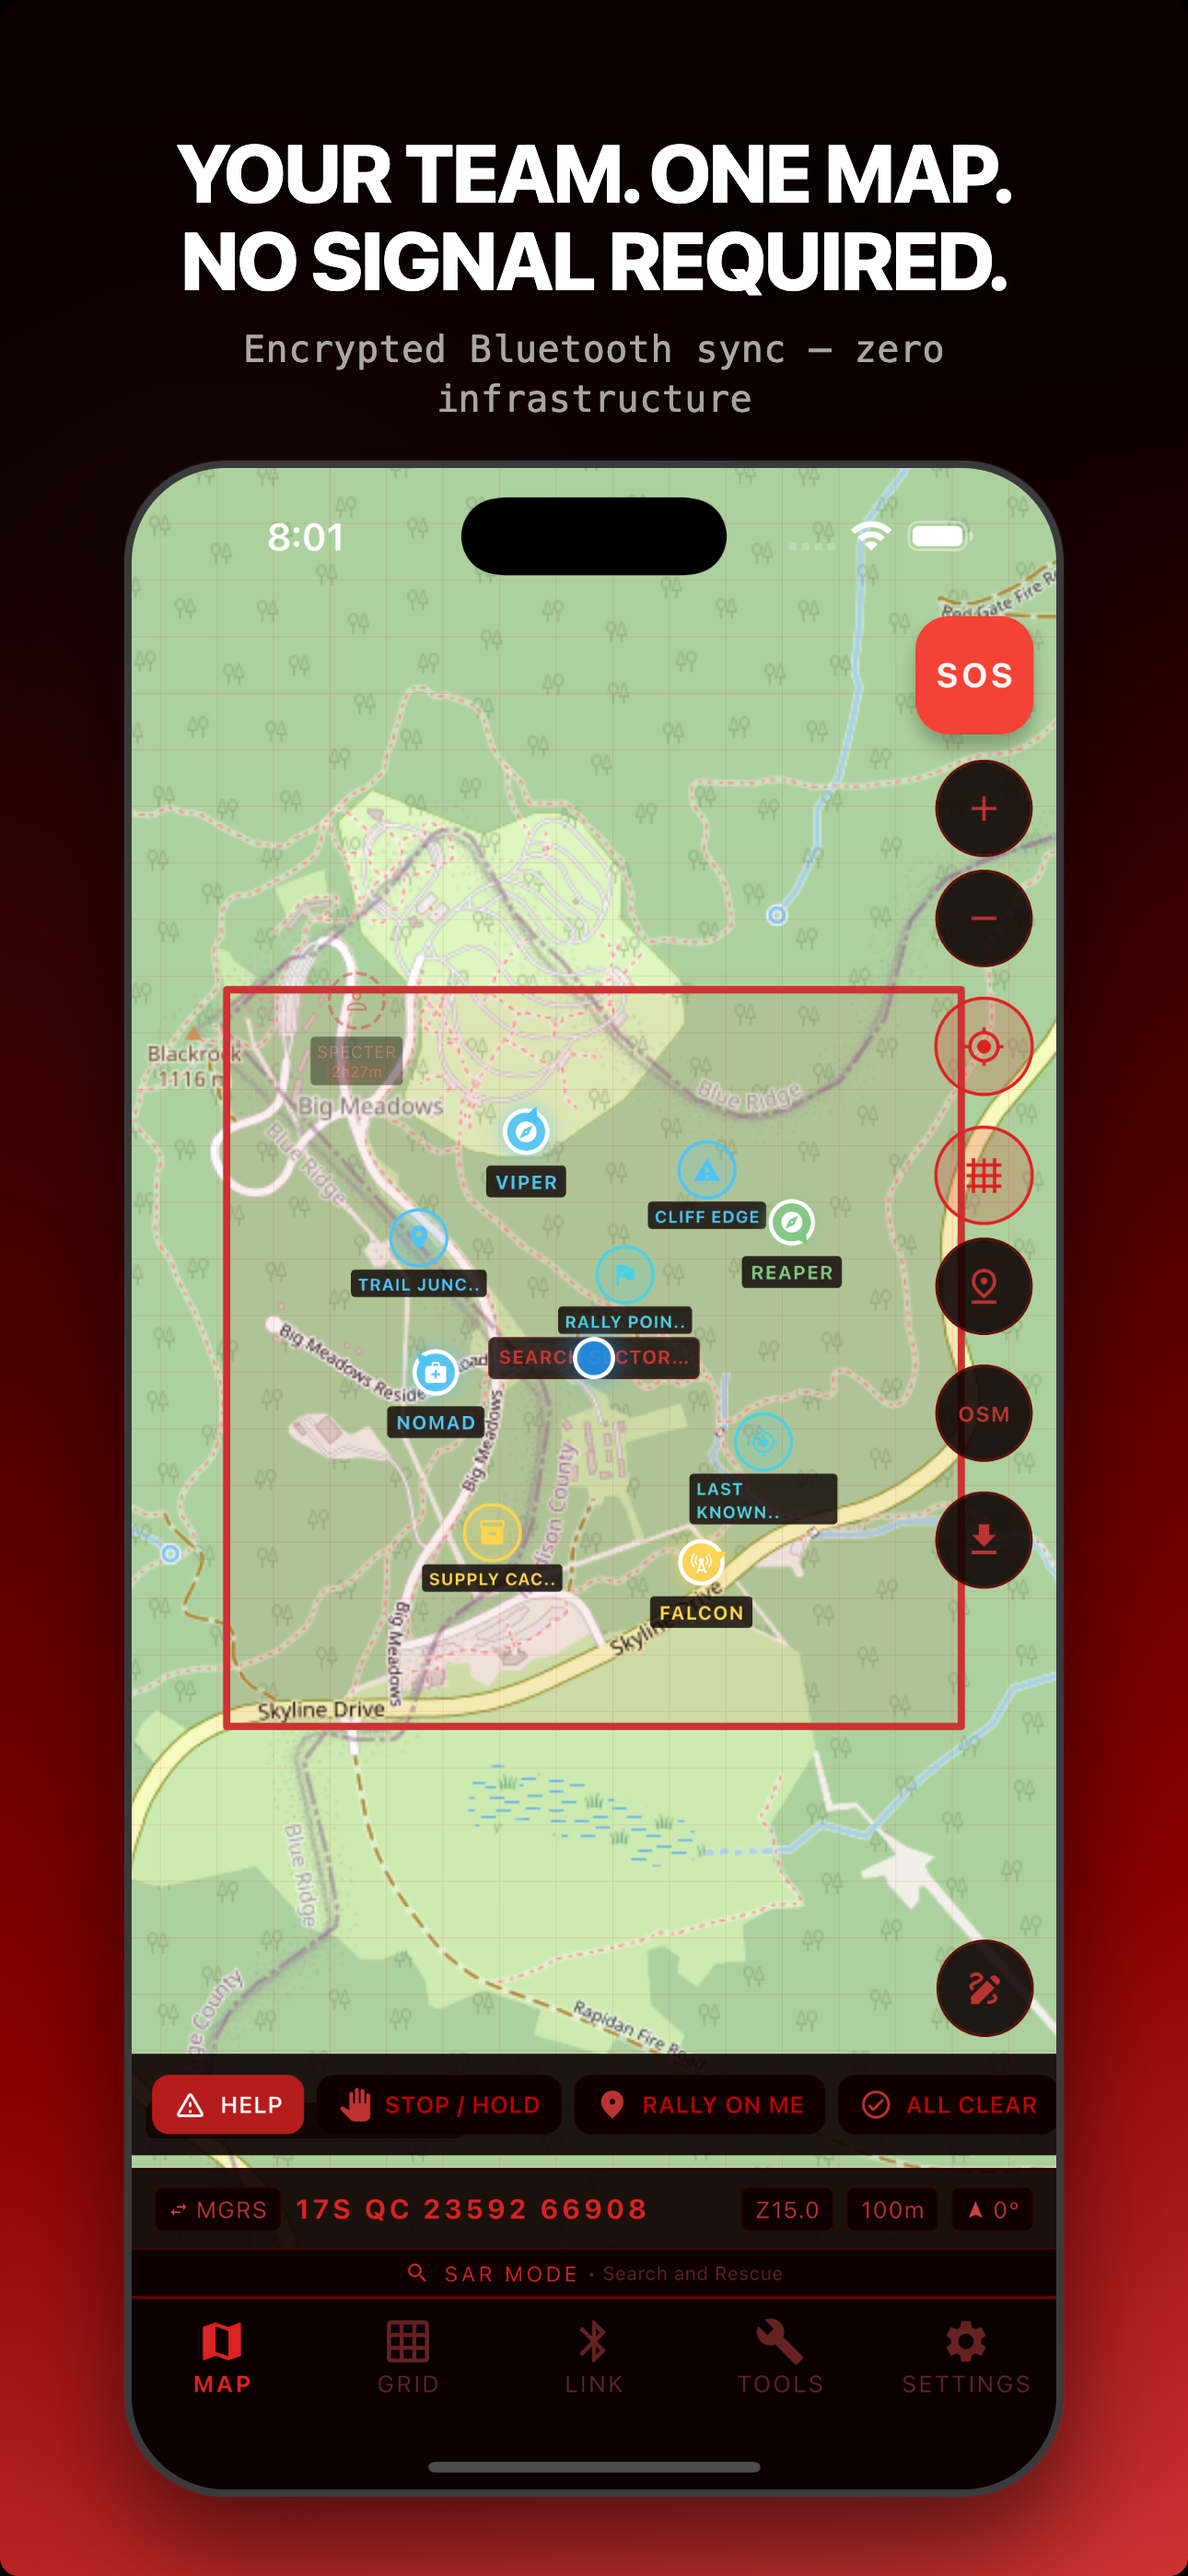
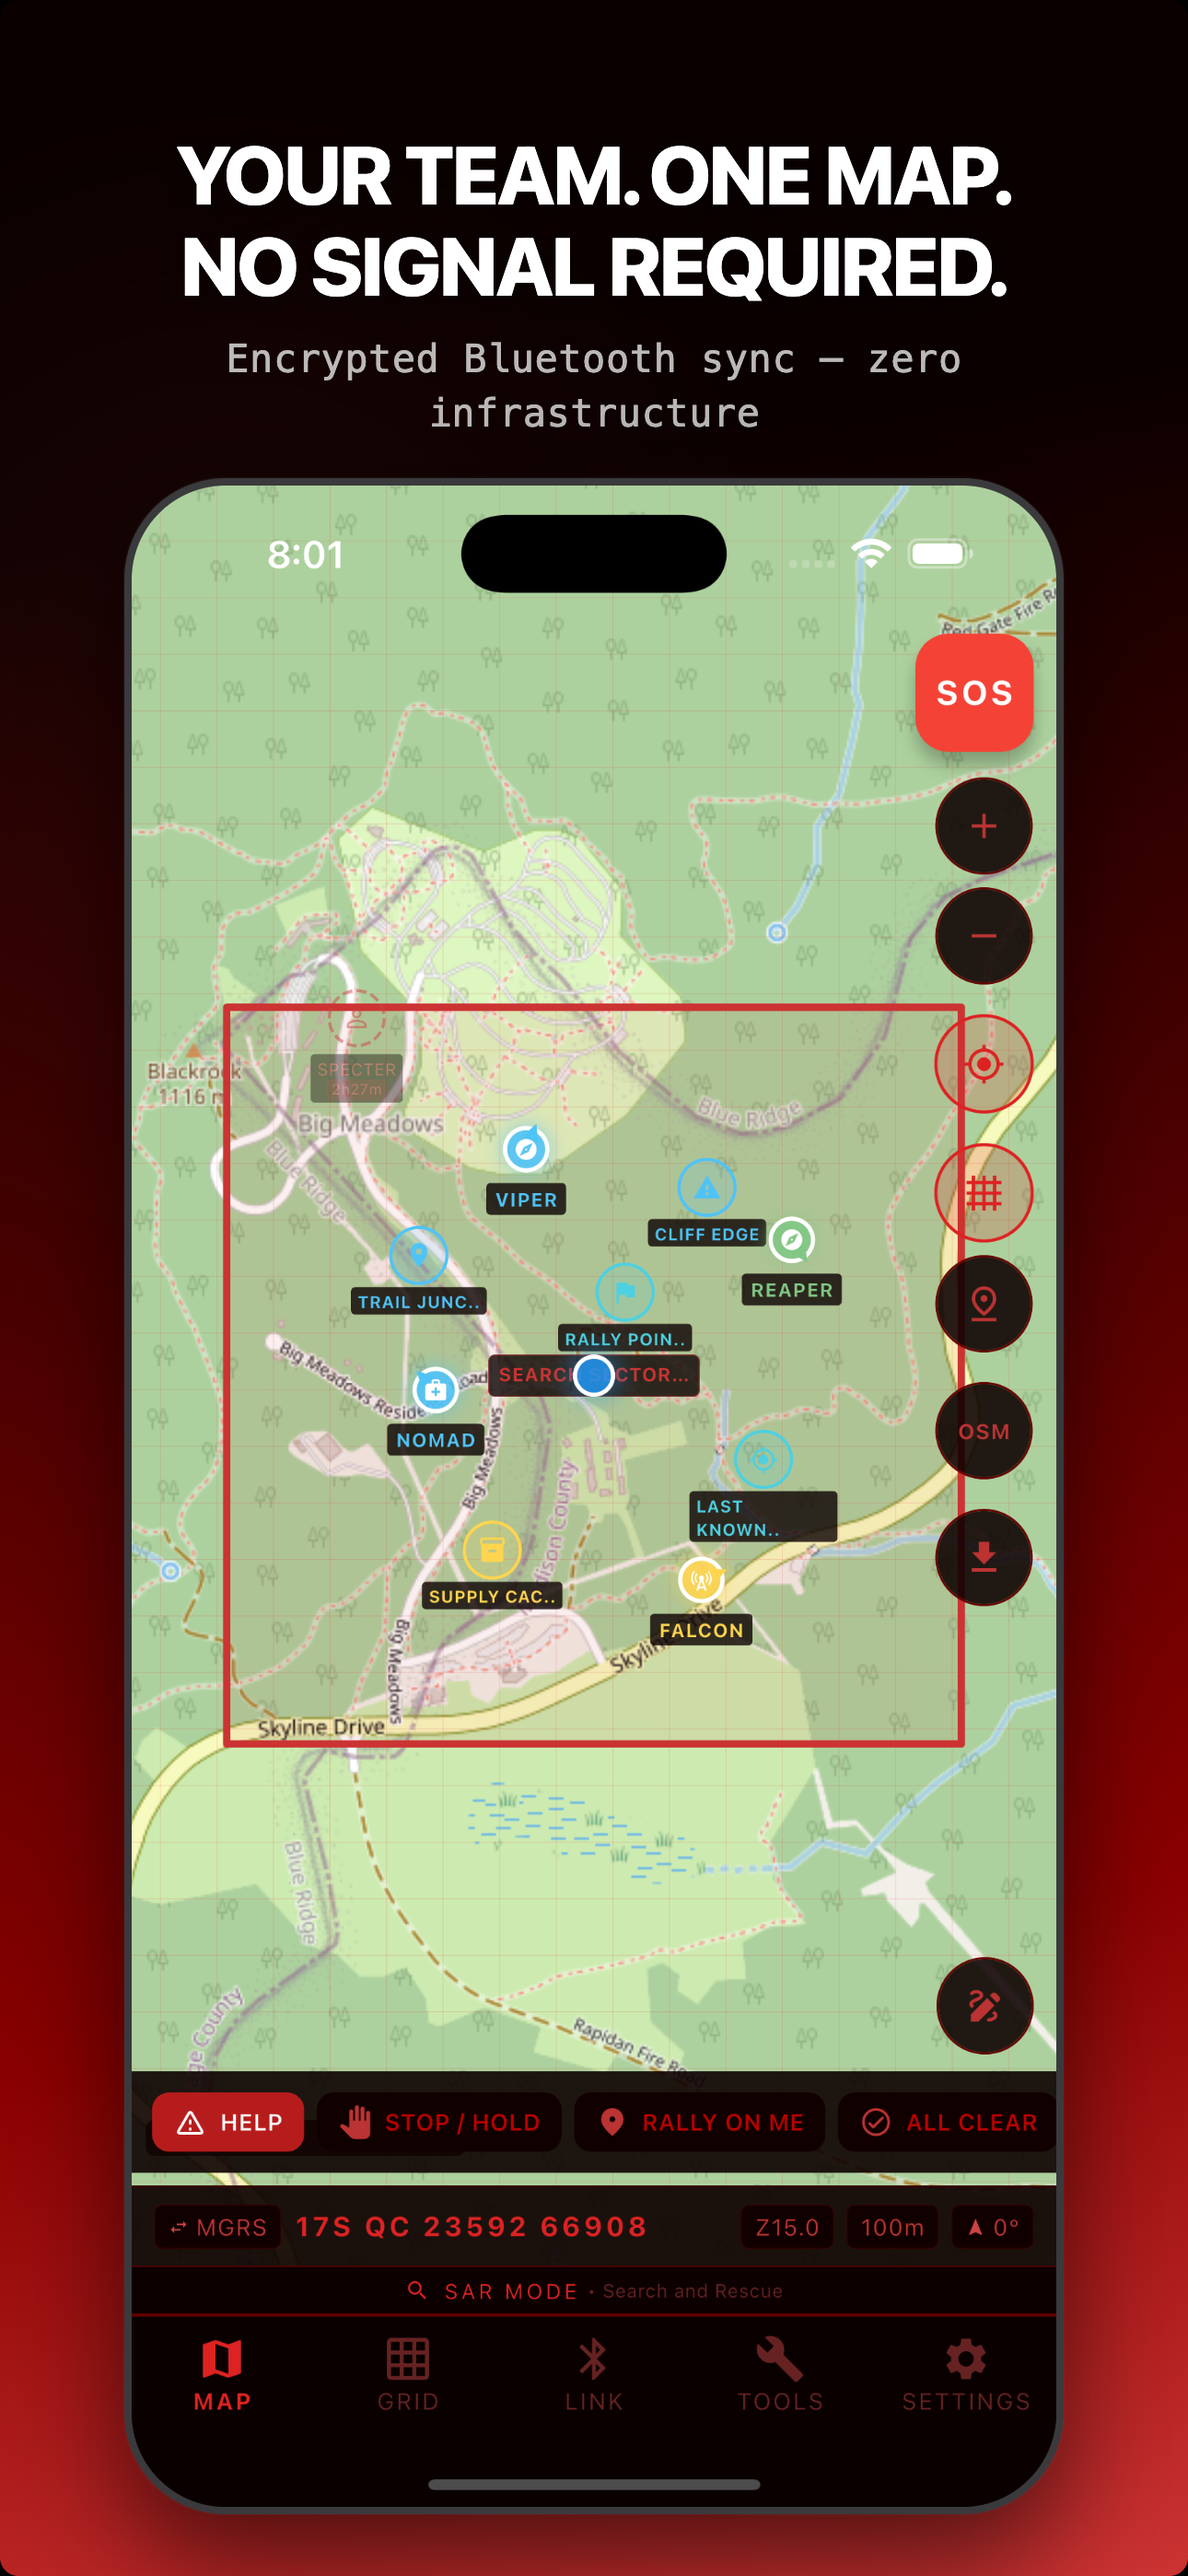
v1.5.2 build 303: fix marker/annotation save in demo mode + 10 new screenshots
- Fix marker save: finish button now shows for single-point markers (was ≥2 only)
- Fix annotation save: sync engine now persists locally even when no active session
- Demo mode merges user-drawn annotations and markers with demo data
- Hide message bar during drawing mode so UI isn't blocked
- 10 composited App Store screenshots covering all major features
- Version bump to 1.5.2+303

Changed region(s): [[0.093, 0.0622, 0.8992, 0.9957], [0.3411, 0.2489, 0.4031, 0.28]]

diff --git a/tools/screenshots/composite.html b/tools/screenshots/composite.html
@@ -28,14 +28,17 @@
     align-items: center;
   }
 
-  /* Each frame gets a unique gradient matching its theme */
   .frame-1 { background: linear-gradient(170deg, #0A0000 0%, #0A0000 20%, #8B0000 75%, #CC3333 100%); }
   .frame-2 { background: linear-gradient(170deg, #001400 0%, #001400 25%, #006600 70%, #00BB00 100%); }
   .frame-3 { background: linear-gradient(170deg, #000A14 0%, #000A14 25%, #005588 70%, #0099DD 100%); }
   .frame-4 { background: linear-gradient(170deg, #F0F0F0 0%, #E0E0E0 25%, #990000 75%, #CC3333 100%); }
   .frame-5 { background: linear-gradient(170deg, #0A0000 0%, #0A0000 20%, #991111 75%, #CC3333 100%); }
+  .frame-6 { background: linear-gradient(170deg, #0A0000 0%, #0A0000 20%, #8B0000 75%, #EE4444 100%); }
+  .frame-7 { background: linear-gradient(170deg, #001400 0%, #001400 25%, #007700 70%, #00DD00 100%); }
+  .frame-8 { background: linear-gradient(170deg, #000A14 0%, #000A14 25%, #006699 70%, #00BBEE 100%); }
+  .frame-9 { background: linear-gradient(170deg, #F0F0F0 0%, #E0E0E0 25%, #BB2222 75%, #EE4444 100%); }
+  .frame-10 { background: linear-gradient(170deg, #F0F0F0 0%, #E0E0E0 25%, #990000 75%, #CC3333 100%); }
 
-  /* Decorative blur */
   .frame::before {
     content: '';
     position: absolute;
@@ -48,11 +51,10 @@
     filter: blur(160px);
     pointer-events: none;
   }
-  .frame-1::before { background: #CC3333; }
-  .frame-2::before { background: #00CC00; }
-  .frame-3::before { background: #0099DD; }
+  .frame-1::before, .frame-5::before, .frame-6::before, .frame-9::before, .frame-10::before { background: #CC3333; }
+  .frame-2::before, .frame-7::before { background: #00CC00; }
+  .frame-3::before, .frame-8::before { background: #0099DD; }
   .frame-4::before { background: #CC0000; }
-  .frame-5::before { background: #CC3333; }
 
   .headline {
     position: relative;
@@ -61,7 +63,7 @@
     font-weight: 800;
     color: #ffffff;
     text-align: center;
-    line-height: 1.08;
+    line-height: 1.12;
     letter-spacing: -2px;
     max-width: 1100px;
     padding: 140px 80px 0;
@@ -72,20 +74,20 @@
   .subtitle {
     position: relative;
     z-index: 2;
-    font-size: 40px;
+    font-size: 42px;
     font-weight: 400;
-    color: rgba(255,255,255,0.65);
+    color: rgba(255,255,255,0.72);
     text-align: center;
-    margin-top: 22px;
+    margin-top: 24px;
     max-width: 1000px;
-    line-height: 1.35;
+    line-height: 1.4;
     padding: 0 80px;
     font-family: 'SF Mono', 'Menlo', monospace;
     letter-spacing: 0.5px;
   }
 
-  .frame-4 .headline { color: #111111; text-shadow: none; }
-  .frame-4 .subtitle { color: rgba(0,0,0,0.5); }
+  .frame-4 .headline, .frame-9 .headline, .frame-10 .headline { color: #111111; text-shadow: none; }
+  .frame-4 .subtitle, .frame-9 .subtitle, .frame-10 .subtitle { color: rgba(0,0,0,0.55); }
 
   .phone {
     position: relative;
@@ -113,39 +115,64 @@
 </head>
 <body>
 
-<!-- 1: Red Light MAP -->
 <div class="frame frame-1">
   <div class="headline">Your Team. One Map. No Signal Required.</div>
   <div class="subtitle">Encrypted Bluetooth sync — zero infrastructure</div>
-  <div class="phone"><img src="../../screenshots/raw/01_map_team.png" alt="Map with team positions"></div>
+  <div class="phone"><img src="../../screenshots/raw/01_map_team.png" alt="Team map"></div>
 </div>
 
-<!-- 2: NVG Green GRID -->
 <div class="frame frame-2">
   <div class="headline">MGRS Precision Navigation</div>
   <div class="subtitle">Live 10-digit military grid, 1-meter accuracy</div>
-  <div class="phone"><img src="../../screenshots/raw/02_grid_mgrs.png" alt="MGRS grid display"></div>
+  <div class="phone"><img src="../../screenshots/raw/02_grid_mgrs.png" alt="MGRS grid"></div>
 </div>
 
-<!-- 3: Blue Force LINK -->
 <div class="frame frame-3">
   <div class="headline">Field Link — Zero Infrastructure</div>
   <div class="subtitle">AES-256 encrypted peer-to-peer coordination</div>
-  <div class="phone"><img src="../../screenshots/raw/03_field_link.png" alt="Field Link session"></div>
+  <div class="phone"><img src="../../screenshots/raw/03_field_link.png" alt="Field Link"></div>
 </div>
 
-<!-- 4: Day White TOOLS -->
 <div class="frame frame-4">
   <div class="headline">11 Tactical Field Tools</div>
-  <div class="subtitle">Dead reckoning, resection, coord converter + 8 more</div>
-  <div class="phone"><img src="../../screenshots/raw/04_tools.png" alt="11 tactical tools"></div>
+  <div class="subtitle">Dead reckoning, resection, coord converter + more</div>
+  <div class="phone"><img src="../../screenshots/raw/04_tools.png" alt="Tools"></div>
 </div>
 
-<!-- 5: Red Light SETTINGS -->
 <div class="frame frame-5">
   <div class="headline">4 Tactical Display Themes</div>
   <div class="subtitle">Red Light · NVG Green · Day White · Blue Force</div>
-  <div class="phone"><img src="../../screenshots/raw/05_themes.png" alt="Theme selector"></div>
+  <div class="phone"><img src="../../screenshots/raw/05_themes.png" alt="Themes"></div>
+</div>
+
+<div class="frame frame-6">
+  <div class="headline">Distance & Bearing at a Tap</div>
+  <div class="subtitle">Tactical info on every teammate</div>
+  <div class="phone"><img src="../../screenshots/raw/06_peer_popup.png" alt="Peer popup"></div>
+</div>
+
+<div class="frame frame-7">
+  <div class="headline">Dead Reckoning Plotter</div>
+  <div class="subtitle">Heading + distance to MGRS destination</div>
+  <div class="phone"><img src="../../screenshots/raw/07_dead_reckoning.png" alt="Dead reckoning"></div>
+</div>
+
+<div class="frame frame-8">
+  <div class="headline">Celestial Navigation</div>
+  <div class="subtitle">Sun and moon bearing — calibrate any compass</div>
+  <div class="phone"><img src="../../screenshots/raw/08_celestial.png" alt="Celestial"></div>
+</div>
+
+<div class="frame frame-9">
+  <div class="headline">Mark Boundaries & Search Sectors</div>
+  <div class="subtitle">Draw polygons and share with your team</div>
+  <div class="phone"><img src="../../screenshots/raw/09_search_area.png" alt="Search area"></div>
+</div>
+
+<div class="frame frame-10">
+  <div class="headline">Team Roster with Roles</div>
+  <div class="subtitle">Lead · Scout · Medic · Comms — assign on the fly</div>
+  <div class="phone"><img src="../../screenshots/raw/10_roster.png" alt="Team roster"></div>
 </div>
 
 </body>

diff --git a/lib/providers/field_link_provider.dart b/lib/providers/field_link_provider.dart
@@ -232,10 +232,17 @@ final fieldLinkStatusStreamProvider = StreamProvider<FieldLinkStatus>((ref) {
 /// the sync engine's CRDT state changes.
 /// In demo mode, emits five fake markers covering every icon type.
 final syncedMarkersProvider = StreamProvider<List<model.Marker>>((ref) {
-  if (ref.watch(demoModeProvider)) {
-    return Stream.value(ref.watch(demoMarkersProvider));
-  }
   final service = ref.watch(fieldLinkServiceProvider);
+  if (ref.watch(demoModeProvider)) {
+    final demo = ref.watch(demoMarkersProvider);
+    Stream<List<model.Marker>> mergedStream() async* {
+      yield [...demo, ...service.currentMarkers];
+      await for (final user in service.markersStream) {
+        yield [...demo, ...user];
+      }
+    }
+    return mergedStream();
+  }
   return service.markersStream;
 });
 
@@ -247,12 +254,22 @@ final syncedMarkersProvider = StreamProvider<List<model.Marker>>((ref) {
 ///
 /// Emits the latest list of live (non-tombstoned) annotations whenever
 /// the sync engine's CRDT state changes.
-/// In demo mode, emits one boundary polygon around the demo AO.
+/// In demo mode, merges the demo AO boundary with any user-drawn
+/// annotations so drawings persist on the map.
 final syncedAnnotationsProvider = StreamProvider<List<Annotation>>((ref) {
-  if (ref.watch(demoModeProvider)) {
-    return Stream.value(ref.watch(demoAnnotationsProvider));
-  }
   final service = ref.watch(fieldLinkServiceProvider);
+  if (ref.watch(demoModeProvider)) {
+    final demo = ref.watch(demoAnnotationsProvider);
+    // Emit an initial snapshot (demo + any already-saved user annotations)
+    // then merge demo with every subsequent user-draw event.
+    Stream<List<Annotation>> mergedStream() async* {
+      yield [...demo, ...service.currentAnnotations];
+      await for (final user in service.annotationsStream) {
+        yield [...demo, ...user];
+      }
+    }
+    return mergedStream();
+  }
   return service.annotationsStream;
 });
 

diff --git a/lib/services/field_link/sync/sync_engine.dart b/lib/services/field_link/sync/sync_engine.dart
@@ -227,10 +227,14 @@ class SyncEngine {
   }
 
   /// Add or update a marker and broadcast the delta.
+  /// Saves locally regardless of session state — broadcast is best-effort.
   Future<void> addMarker(Marker marker) async {
-    if (!_isRunning) return;
-
     _state = _state.upsertMarker(_localDeviceId, marker);
+
+    if (!_isRunning) {
+      _emitState();
+      return;
+    }
 
     final payload = _encoder.encodeMarker(
       _localDeviceId,
@@ -248,10 +252,14 @@ class SyncEngine {
   }
 
   /// Add or update an annotation and broadcast the delta.
+  /// Saves locally regardless of session state — broadcast is best-effort.
   Future<void> addAnnotation(Annotation annotation) async {
-    if (!_isRunning) return;
-
     _state = _state.upsertAnnotation(_localDeviceId, annotation);
+
+    if (!_isRunning) {
+      _emitState();
+      return;
+    }
 
     final payload = _encoder.encodeAnnotation(
       _localDeviceId,
@@ -265,9 +273,12 @@ class SyncEngine {
 
   /// Remove a marker by ID and broadcast a tombstone.
   Future<void> removeMarker(String markerId) async {
-    if (!_isRunning) return;
-
     _state = _state.deleteMarker(_localDeviceId, markerId);
+
+    if (!_isRunning) {
+      _emitState();
+      return;
+    }
 
     final payload = _encoder.encodeMarkerDelete(
       _localDeviceId,
@@ -284,9 +295,12 @@ class SyncEngine {
 
   /// Remove an annotation by ID and broadcast a tombstone.
   Future<void> removeAnnotation(String annotationId) async {
-    if (!_isRunning) return;
-
     _state = _state.deleteAnnotation(_localDeviceId, annotationId);
+
+    if (!_isRunning) {
+      _emitState();
+      return;
+    }
 
     final payload = _encoder.encodeAnnotationDelete(
       _localDeviceId,

diff --git a/docs/link.html b/docs/link.html
@@ -184,6 +184,11 @@
         <img src="images/03_field_link.png" alt="Field Link encrypted session" style="height: 680px; width: auto; border-radius: 16px; flex-shrink: 0;" loading="lazy">
         <img src="images/04_tools.png" alt="11 tactical tools" style="height: 680px; width: auto; border-radius: 16px; flex-shrink: 0;" loading="lazy">
         <img src="images/05_themes.png" alt="4 tactical display themes" style="height: 680px; width: auto; border-radius: 16px; flex-shrink: 0;" loading="lazy">
+        <img src="images/06_peer_popup.png" alt="Peer distance and bearing" style="height: 680px; width: auto; border-radius: 16px; flex-shrink: 0;" loading="lazy">
+        <img src="images/07_dead_reckoning.png" alt="Dead reckoning plotter" style="height: 680px; width: auto; border-radius: 16px; flex-shrink: 0;" loading="lazy">
+        <img src="images/08_celestial.png" alt="Celestial navigation" style="height: 680px; width: auto; border-radius: 16px; flex-shrink: 0;" loading="lazy">
+        <img src="images/09_search_area.png" alt="Draw search area polygon" style="height: 680px; width: auto; border-radius: 16px; flex-shrink: 0;" loading="lazy">
+        <img src="images/10_roster.png" alt="Team roster with roles" style="height: 680px; width: auto; border-radius: 16px; flex-shrink: 0;" loading="lazy">
       </div>
     </div>
   </section>

diff --git a/lib/ui/screens/map/widgets/annotation_toolbar.dart b/lib/ui/screens/map/widgets/annotation_toolbar.dart
@@ -111,8 +111,10 @@ class AnnotationToolbar extends ConsumerWidget {
                       tooltip: 'Undo point',
                     ),
                     const SizedBox(width: 4),
-                    // Done
-                    if (drawingPoints.length >= 2)
+                    // Done — marker mode needs 1+ point, others need 2+
+                    if ((drawingMode == DrawingMode.marker &&
+                            drawingPoints.isNotEmpty) ||
+                        drawingPoints.length >= 2)
                       _SmallButton(
                         icon: Icons.check,
                         colors: colors,

diff --git a/lib/ui/screens/map/map_screen.dart b/lib/ui/screens/map/map_screen.dart
@@ -289,7 +289,9 @@ class _MapScreenState extends ConsumerState<MapScreen> {
             ),
 
           // ── Message bar (above coordinate bar, session-gated) ────────────
-          if (isSessionActive)
+          // Hidden when the annotation toolbar is open (same position) OR
+          // when actively drawing — both would block the map.
+          if (isSessionActive && !showToolbar && !isDrawing)
             Positioned(
               left: 0,
               right: 0,

diff --git a/tools/screenshots/render.js b/tools/screenshots/render.js
@@ -29,6 +29,11 @@ const CAPTIONS = [
   '03_field_link',
   '04_tools',
   '05_themes',
+  '06_peer_popup',
+  '07_dead_reckoning',
+  '08_celestial',
+  '09_search_area',
+  '10_roster',
 ];
 
 (async () => {

diff --git a/README.md b/README.md
@@ -33,6 +33,10 @@ Built on the MGRS engine from [Red Grid MGRS](https://github.com/RedGridTactical
 |:---:|:---:|:---:|:---:|:---:|
 | ![Team Map](screenshots/raw/01_map_team.png) | ![MGRS Grid](screenshots/raw/02_grid_mgrs.png) | ![Field Link](screenshots/raw/03_field_link.png) | ![Tools](screenshots/raw/04_tools.png) | ![Themes](screenshots/raw/05_themes.png) |
 
+| Peer Detail | Dead Reckoning | Celestial Nav | Search Area | Team Roster |
+|:---:|:---:|:---:|:---:|:---:|
+| ![Peer Popup](screenshots/raw/06_peer_popup.png) | ![Dead Reckoning](screenshots/raw/07_dead_reckoning.png) | ![Celestial](screenshots/raw/08_celestial.png) | ![Search Area](screenshots/raw/09_search_area.png) | ![Team Roster](screenshots/raw/10_roster.png) |
+
 ---
 
 ## Features
